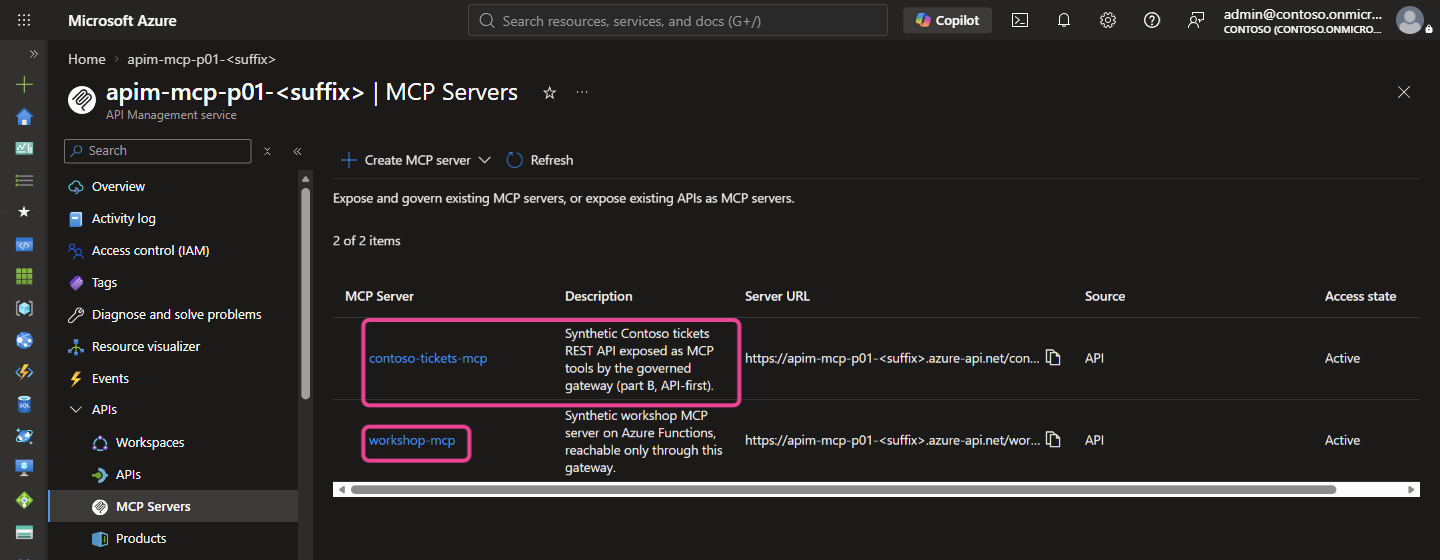
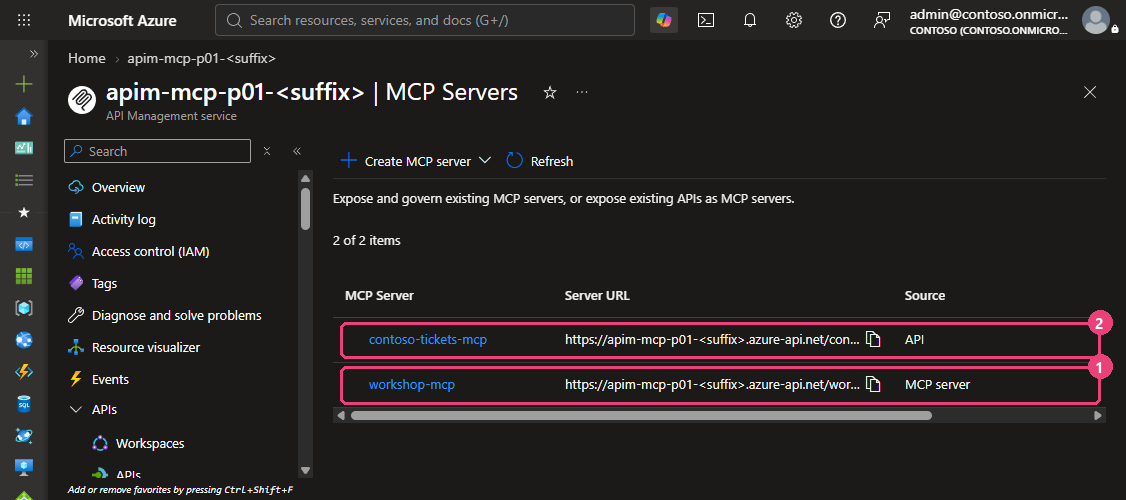
module 04: validated live; MCP passthrough needs a backend entity
- Live finding: without backendId, API Management treats the MCP server as
  REST-backed and answers tools/list with an empty list. Add
  azapi_resource.mcp_backend and backendId (Preview API).
- Passthrough rewrites the challenge resource_metadata under the API path;
  the MCP policy serves that anonymous GET with the same static PRM.
- Validator: accept both gateway metadata URLs and check both; strict-mode
  safe isError reads. Clean-up allow-list includes the backend.
- Real Alice, Bob (403 write, 429 burst), Eve and telemetry results;
  terminal captures; portal capture shows Source: MCP server.

diff --git a/.github/extensions/workshop-build-board/board.html b/.github/extensions/workshop-build-board/board.html
@@ -382,7 +382,8 @@
       "diagram-05-obo-hops-en", "diagram-05-obo-hops-fr", "diagram-05-rbac-checks-en", "diagram-05-rbac-checks-fr",
       "diagram-02-server-levels-en", "diagram-02-server-levels-fr",
       "client-01-inspector", "client-03-vscode", "azure-06-apic-register",
-      "azure-04-mcp-servers", "azure-04b-mcp-tools", "azure-04b-mcp-policy", "terminal-04b-operator", "terminal-04b-alice"];
+      "azure-04-mcp-servers", "azure-04b-mcp-tools", "azure-04b-mcp-policy", "terminal-04b-operator", "terminal-04b-alice",
+      "terminal-04-operator", "terminal-04-bob"];
     let state;
     let rawState;
     let participant = null;

diff --git a/docs/PROGRESS.md b/docs/PROGRESS.md
@@ -13,7 +13,7 @@ or in an approved author-owned non-production tenant.
 | 01 | Discover MCP (no Azure) | authored | | Real local SDK validator and Inspector 2.9.0 tools/list + tools/call pass; protocol 2026-07-28 with SDK client. | EN/FR guide, locked .NET 10 stdio server and client config implemented. Manual VS Code approval observation remains pending; no Azure needed here. |
 | 02 | An "open" MCP server (level 0) | validated | 2026-10-16 | Live validator in the author's test subscription: running HTTPS-only app, HTTP 401 without key and with a wrong key, initialize 200 (protocol 2025-06-18), tools/list 200 with exactly five tools, create_ticket 200 with only the key (risk shown, one synthetic ticket). Offline validator, 39/39 unit tests, Terraform fmt/validate and 49/49 mocked runs PASS. | A tenant Azure Policy (`modify` effect, management-group scope) forced Storage public network access to `Disabled`; Flex publishing failed with HTTP 403. Added the `mcp_private_storage` opt-in (shared VNet, delegated /27 Flex subnet, blob and queue private endpoints and DNS zones); no exemption requested, no shared key. Applied 11+1 then 9+1 (0 deletions). Key rotated after validation. Resources kept for module 03. Microsoft.ApiCenter registered (free) to pass the full MCP preflight. |
 | 03 | Identity with Microsoft Entra (level 1) | validated | 2026-10-19 | Live operator checks 2026-10-17 in the author's test tenant: Entra apply 8 added (no secret, assignment required); stage 1 and 2 in-place updates; validator PASS: no token 401 by built-in authentication, PRM (Preview) names tenant and user_impersonation, Graph-audience token 401, authsettingsV2 required/Return401/tenant issuer/MCP audience, key gate replaced, system key alone 401. Persona check Alice live 2026-10-19 after her MFA registration (authenticator app): PASS signed-in account matches the private object ID, initialize HTTP 200 with a token for the MCP audience (protocol 2025-06-18), tools/list exactly five tools. Bob persona 2026-10-19 PASS: signed-in object ID matches, initialize HTTP 200 (protocol 2025-06-18), tools/list exactly five tools. Eve persona 2026-10-19 PASS: Entra refuses the token with AADSTS50105 (not assigned). Offline validator and Terraform mock runs PASS. | Each test account first registered MFA in the test tenant. Recent Azure CLI versions fall back to an interactive pop-up after a refused token; the validators now call `Get-WorkshopAccessToken` (60-second timeout, keeps only the AADSTS code). Test accounts created by the identity administrator outside Terraform; IDs only in private files. |
-| 04 | API Management as the only entry point (level 2) | authored | | Live operator checks 2026-10-18: Standard v2 created in about 2.5 min; validator PASS: gateway 401 with PRM challenge, gateway PRM names gateway/tenant/scope, direct Function host HTTP 403, Graph-audience token 401, Function publicNetworkAccess Disabled, deployed diagnostics 0 body bytes and no header at both scopes. Offline validator and 49/49 workload mock runs PASS. | Not `validated`: persona, burst 429 and telemetry checks not run (MFA registration required for test accounts). Fixed: the 2025-09-01-preview service rejects `mcpProperties.endpoints` as an array (published REST reference and samples show an array); gateway.tf now sends a map keyed by name with azapi schema validation disabled on that resource. A tenant automation switches the optional portal plan to F1 nightly; plans then restore B1. MCP server API is **Preview**. Optional part B (REST API exposed as an MCP server, API-first, `enable_rest_mcp_demo`) deployed live 2026-10-19 with stage 1 (apply 27 added, 3 changed, 0 destroyed; APIM Standard v2 in about 6 min): `validate-rest-mcp.ps1` operator PASS (MCP 401 with PRM challenge, PRM 200, REST API 401 without token, Graph-audience 401, type mcp with list_tickets/get_ticket mapped, 0 body bytes); Alice persona PASS (tools/list exactly 2 tools, list_tickets 3 synthetic tickets, get_ticket CT-1001). Live findings: REST API policies (token check, then mock-response) do run for MCP tool calls; tool names are the tool resource names; the argument is named after the template parameter (ticketId); APIM omits `isError` on success (validator now treats absent as false). Alice persona for part A not run (stage 2 not applied). Cleanup `-Apply` PASS (phase 0: 10 destroyed; phase 2: 17 destroyed); APIM removed the same day. Bob not run. |
+| 04 | API Management as the only entry point (level 2) | validated | 2026-10-20 | Live operator checks 2026-10-18: Standard v2 created in about 2.5 min; validator PASS: gateway 401 with PRM challenge, gateway PRM names gateway/tenant/scope, direct Function host HTTP 403, Graph-audience token 401, Function publicNetworkAccess Disabled, deployed diagnostics 0 body bytes and no header at both scopes. Offline validator and 49/49 workload mock runs PASS. | Not `validated`: persona, burst 429 and telemetry checks not run (MFA registration required for test accounts). Fixed: the 2025-09-01-preview service rejects `mcpProperties.endpoints` as an array (published REST reference and samples show an array); gateway.tf now sends a map keyed by name with azapi schema validation disabled on that resource. A tenant automation switches the optional portal plan to F1 nightly; plans then restore B1. MCP server API is **Preview**. Optional part B (REST API exposed as an MCP server, API-first, `enable_rest_mcp_demo`) deployed live 2026-10-19 with stage 1 (apply 27 added, 3 changed, 0 destroyed; APIM Standard v2 in about 6 min): `validate-rest-mcp.ps1` operator PASS (MCP 401 with PRM challenge, PRM 200, REST API 401 without token, Graph-audience 401, type mcp with list_tickets/get_ticket mapped, 0 body bytes); Alice persona PASS (tools/list exactly 2 tools, list_tickets 3 synthetic tickets, get_ticket CT-1001). Live findings: REST API policies (token check, then mock-response) do run for MCP tool calls; tool names are the tool resource names; the argument is named after the template parameter (ticketId); APIM omits `isError` on success (validator now treats absent as false). Alice persona for part A not run (stage 2 not applied). Cleanup `-Apply` PASS (phase 0: 10 destroyed; phase 2: 17 destroyed); APIM removed the same day. Bob not run. Full live run 2026-10-20 (redeployed: 17 added, stage 2 lock): live finding, the MCP server had no backend entity, so APIM answered tools/list itself with an empty list (forward-request 0 ms, portal Source: API); fix: `azapi_resource.mcp_backend` + `backendId` (portal Source: MCP server, SSE passthrough). Second finding: in passthrough mode APIM rewrites the challenge `resource_metadata` under the API path; the MCP policy now answers that anonymous GET with the same static PRM (uses `context.Request.OriginalUrl`). Validator PASS: operator (401 + PRM at both URLs, direct 403, Graph token 401, publicNetworkAccess Disabled, 0 body bytes); Alice (5 tools, get_service_health 200, create_ticket 200, unknown 403, malformed 400); Bob (read 200, create_ticket 403, burst of 40 → 429); Eve (AADSTS50105); telemetry (103 gateway requests, 60 tool traces with tool label and caller oid, no body). Part B re-applied (10 added): operator and Bob PASS. |
 | 05 | On-Behalf-Of vs app-only (level 3) | authored | | Live operator checks 2026-10-18: workload apply 6 added; Entra apply 5 added (delegated Graph User.Read and Storage user_impersonation, one federated credential, admin consent); validator PASS: Function settings name both identities and hold no secret, MCP API has no client secret and exactly one federated credential, report container has 2 Storage Blob Data Reader assignments (app-only identity, Alice) and none for the OBO identity or Bob. | Not `validated`: persona checks (Alice 200, Bob 200 with isError, as_app identical) not run (MFA registration required). With module 02 private Storage, publish-report.ps1 from outside the VNet fails as expected; the synthetic report was uploaded from a short-lived ACI in a delegated subnet with a container-scoped managed identity, then the ACI, identity, role and subnet were deleted. |
 | 06 | Observe and inventory (level 4) | authored | | KQL run live 2026-10-18 on gateway traffic with `az monitor app-insights query --analytics-query @file`: rows for initialize/401/workshop-validator with metadata only. Offline validator PASS. | Not `validated`: no persona traffic (tools/call) yet; API Center registration and BYO listing are manual and not run. Fixed: Learn documents `api.type == Mcp`, but a passthrough MCP server logs `mcp-backend`; the query accepts both. Single quotes keep the query intact through the Azure CLI on Windows. Agent 365 (06b) remains a presenter talk track. Portal capture of the same query in Logs (KQL mode) added 2026-10-19. |
 | 07 | Optional: other clients | authored | | Offline validator 14/14 PASS in a fresh clone (PR #13, merged `6eb049c`). Bash syntax check passed. | Facilitator demo only: Foundry agent (managed identity or OAuth identity passthrough, Preview) and Copilot Studio outline. No Azure or Entra resources. |

diff --git a/modules/04-governed-gateway/README.fr.md b/modules/04-governed-gateway/README.fr.md
@@ -151,8 +151,8 @@ $vars = '-var-file=..\..\.workshop\participant.tfvars.json', '-var-file=..\..\.w
 terraform '-chdir=infra\workload' init -lockfile=readonly
 terraform '-chdir=infra\workload' plan @vars '-out=..\..\.workshop\module04.tfplan'
 if ($LASTEXITCODE -ne 0) { throw 'Terraform plan failed.' }
-# Relire : environ 19 ajouts (réseau, DNS, point de terminaison privé, API Management, API, stratégies, journaliseur,
-# diagnostics, identité et une attribution de rôle) et la mise à jour en place connue des app_settings. Puis, après approbation :
+# Relire : environ 20 ajouts (réseau, DNS, point de terminaison privé, API Management, le backend de la Function, API,
+# stratégies, journaliseur, diagnostics, identité et une attribution de rôle) et la mise à jour en place connue des app_settings. Puis, après approbation :
 terraform '-chdir=infra\workload' apply '..\..\.workshop\module04.tfplan'
 ```
 
@@ -320,20 +320,25 @@ Start-Sleep -Seconds 300   # délai d'ingestion de la télémétrie
 > injoignable depuis Internet. La passerelle refuse un jeton émis pour une autre audience, et les journaux
 > ne contiennent aucun octet de corps ni aucun en-tête.
 
-> **Résultat attendu** — messages des contrôles par persona, `-Burst` et `-CheckTelemetry` ; non capturé, car le tenant de
-> test exige que les comptes de test s'inscrivent à l'authentification multifacteur (MFA) (extrait).
+![Sortie réelle du terminal : contrôles opérateur du module 04 ; le cadre 1 marque les quatre refus et les métadonnées de la passerelle, le cadre 2 la Function privée et les diagnostics à 0 octet de corps](../../assets/screenshots/terminal-04-operator.png)
+
+> **Résultat réel** — contrôles par persona, `-Burst` et `-CheckTelemetry`, 2026-10-20, tenant de test de l'auteur ; chaque
+> compte de test est connecté dans son propre profil Azure CLI. Noms et ID masqués (extrait).
 >
 > ```text
 > PASS Alice get_service_health is allowed with Tools.Read (expected HTTP 200).
-> PASS Bob create_ticket is denied by the gateway: Tools.Write is missing (expected HTTP 403).
 > PASS Alice create_ticket is allowed with Tools.Write and queues one synthetic ticket (expected HTTP 200).
+> PASS Bob create_ticket is denied by the gateway: Tools.Write is missing (expected HTTP 403).
 > PASS an unknown tool and a JSON-RPC message without a method are denied safely (expected HTTP 403 and HTTP 400).
-> PASS Bob burst of <count> calls is throttled per caller object ID (expected HTTP 429).
-> PASS Application Insights: <n> gateway requests and <n> tool traces with tool label and caller oid, no body, argument or token (expected HTTP 200 from Log Analytics).
+> PASS Bob burst of 40 calls is throttled per caller object ID (expected HTTP 429).
+> PASS Eve cannot obtain a token, so she never reaches the gateway (expected HTTP 400 from the token endpoint, AADSTS50105).
+> PASS Application Insights: 103 gateway requests and 60 tool traces with tool label and caller oid, no body, argument or token (expected HTTP 200 from Log Analytics).
 > ```
 >
 > **Ce que cela signifie pour vous :** être connecté ne veut plus dire « tout faire » : Bob lit, seule Alice écrit, et
 > personne ne peut saturer le serveur. Les journaux indiquent **qui** a appelé **quel outil**, jamais ce qu'il a envoyé.
+
+![Sortie réelle du terminal : contrôle par persona du module 04, connexion en tant que Bob ; le cadre 1 marque la lecture autorisée et l'écriture refusée avec HTTP 403, le cadre 2 la rafale limitée avec HTTP 429](../../assets/screenshots/terminal-04-bob.png)
 
 ### Partie B facultative - Exposer une API REST en serveur MCP (approche API-first)
 
@@ -476,7 +481,7 @@ pour l'agrandir.
 **API Management → MCP Servers.** Deux serveurs sur la même passerelle : `contoso-tickets-mcp` (partie B, construit à
 partir d'une API REST) et `workshop-mcp` (partie A, le serveur Azure Functions).
 
-![Capture réelle : liste MCP Servers d'API Management avec contoso-tickets-mcp (API REST exposée en MCP) et workshop-mcp (serveur existant)](../../assets/screenshots/azure-04-mcp-servers.png)
+![Capture réelle : liste MCP Servers d'API Management ; le cadre 1 marque workshop-mcp avec la source MCP server (relais vers la Function), le cadre 2 contoso-tickets-mcp avec la source API (API REST exposée en MCP)](../../assets/screenshots/azure-04-mcp-servers.png)
 
 **contoso-tickets-mcp → Tools.** Chaque opération cochée devient un outil MCP : `GET /tickets` et `GET /tickets/{ticketId}`.
 
@@ -680,6 +685,8 @@ compare chaque réponse au statut attendu : un refus prévu est une réussite. C
 | La publication du code échoue après l'étape 2 | Normal : les points de terminaison de déploiement sont désormais privés. Publiez avant l'étape 2, ou depuis le réseau virtuel. |
 | Nom déjà utilisé après un nettoyage | Suppression réversible d'API Management : purgez l'instance (voir Nettoyer). |
 | `ValidationError` ... `mcpProperties.endpoints` ... `JSON array` | Votre copie est antérieure à la correction : le service 2025-09-01-preview attend `endpoints` sous forme de table indexée par nom ; `infra/workload/gateway.tf` envoie désormais `{ message = { uriTemplate = "/mcp" } }` (API Preview ; la référence REST publiée montre encore un tableau). |
+| Le `tools/list` d'Alice par la passerelle est vide (`{"tools":[]}`), alors que la Function liste cinq outils en direct | Le serveur MCP n'a pas d'entité backend : API Management le traite alors comme un serveur MCP construit à partir d'une API REST et répond lui-même à `tools/list`. `infra/workload/gateway.tf` crée `azapi_resource.mcp_backend` et renseigne `backendId` (API Preview ; la référence publiée ne montre que `serviceUrl`). Dans le portail, **MCP Servers** doit afficher **Source : MCP server** pour `workshop-mcp`. |
+| Le challenge 401 indique `.../workshop-mcp/.well-known/oauth-protected-resource/workshop-mcp/mcp` | Normal en mode passthrough : API Management réécrit l'URL des métadonnées sous le chemin du serveur MCP. La stratégie du serveur MCP répond à ce GET anonyme précis avec le même document de métadonnées ; l'URL à la racine fonctionne toujours. |
 | Le plan affiche le plan de service du portail `F1` -> `B1` | Un élément extérieur à Terraform a modifié le plan du portail facultatif (dans le tenant de l'auteur, une automatisation de réduction des coûts le fait chaque nuit). N'approuvez que si vous voulez revenir en B1 ; sinon, laissez ce changement de côté. |
 
 ## Nettoyer

diff --git a/modules/04-governed-gateway/README.md b/modules/04-governed-gateway/README.md
@@ -145,8 +145,8 @@ $vars = '-var-file=..\..\.workshop\participant.tfvars.json', '-var-file=..\..\.w
 terraform '-chdir=infra\workload' init -lockfile=readonly
 terraform '-chdir=infra\workload' plan @vars '-out=..\..\.workshop\module04.tfplan'
 if ($LASTEXITCODE -ne 0) { throw 'Terraform plan failed.' }
-# Review: about 19 additions (network, DNS, private endpoint, API Management, APIs, policies, logger, diagnostics,
-# identity and one role assignment) and the known in-place Function App app_settings update. Then, after approval:
+# Review: about 20 additions (network, DNS, private endpoint, API Management, the Function backend, APIs, policies, logger,
+# diagnostics, identity and one role assignment) and the known in-place Function App app_settings update. Then, after approval:
 terraform '-chdir=infra\workload' apply '..\..\.workshop\module04.tfplan'
 ```
 
@@ -311,20 +311,25 @@ Start-Sleep -Seconds 300   # telemetry ingestion delay
 > **What it means for you:** there is now **one door**, and the Function behind it is unreachable from the internet.
 > A token for another audience is refused at the gateway, and the logs keep zero body bytes and no header.
 
-> **Expected result** — persona, `-Burst` and `-CheckTelemetry` messages; not captured: the test tenant requires MFA
-> registration for the test accounts (excerpt).
+![Real terminal output: module 04 operator checks; frame 1 marks the four refusals and the gateway metadata, frame 2 the private Function and the zero-body-byte diagnostics](../../assets/screenshots/terminal-04-operator.png)
+
+> **Real result** — persona, `-Burst` and `-CheckTelemetry` runs, 2026-10-20, author's test tenant, each test account
+> signed in to its own Azure CLI profile. Names and IDs withheld (excerpt).
 >
 > ```text
 > PASS Alice get_service_health is allowed with Tools.Read (expected HTTP 200).
-> PASS Bob create_ticket is denied by the gateway: Tools.Write is missing (expected HTTP 403).
 > PASS Alice create_ticket is allowed with Tools.Write and queues one synthetic ticket (expected HTTP 200).
+> PASS Bob create_ticket is denied by the gateway: Tools.Write is missing (expected HTTP 403).
 > PASS an unknown tool and a JSON-RPC message without a method are denied safely (expected HTTP 403 and HTTP 400).
-> PASS Bob burst of <count> calls is throttled per caller object ID (expected HTTP 429).
-> PASS Application Insights: <n> gateway requests and <n> tool traces with tool label and caller oid, no body, argument or token (expected HTTP 200 from Log Analytics).
+> PASS Bob burst of 40 calls is throttled per caller object ID (expected HTTP 429).
+> PASS Eve cannot obtain a token, so she never reaches the gateway (expected HTTP 400 from the token endpoint, AADSTS50105).
+> PASS Application Insights: 103 gateway requests and 60 tool traces with tool label and caller oid, no body, argument or token (expected HTTP 200 from Log Analytics).
 > ```
 >
 > **What it means for you:** being signed in no longer means "can do everything": Bob reads, only Alice writes, and
 > nobody can flood the server. The logs say **who** called **which tool**, never what they sent.
+
+![Real terminal output: module 04 persona check signed in as Bob; frame 1 marks the read allowed and the write refused with HTTP 403, frame 2 the burst throttled with HTTP 429](../../assets/screenshots/terminal-04-bob.png)
 
 ### Optional part B - Expose a REST API as an MCP server (API-first)
 
@@ -464,7 +469,7 @@ pink frames mark what to check). Select an image to open it full size.
 **API Management → MCP Servers.** Two servers on the same gateway: `contoso-tickets-mcp` (part B, built from a REST API)
 and `workshop-mcp` (part A, the Azure Functions server).
 
-![Real capture: API Management MCP Servers list with contoso-tickets-mcp (REST API exposed as MCP) and workshop-mcp (existing server)](../../assets/screenshots/azure-04-mcp-servers.png)
+![Real capture: API Management MCP Servers list; frame 1 marks workshop-mcp with Source MCP server (passthrough to the Function), frame 2 contoso-tickets-mcp with Source API (REST API exposed as MCP)](../../assets/screenshots/azure-04-mcp-servers.png)
 
 **contoso-tickets-mcp → Tools.** Each ticked API operation is one MCP tool: `GET /tickets` and `GET /tickets/{ticketId}`.
 
@@ -663,6 +668,8 @@ compares each answer with the expected status: a refusal you predicted is a succ
 | Code publish fails after stage 2 | Expected: deployment endpoints are private now. Publish before stage 2, or from inside the virtual network. |
 | Name already in use after a clean-up | API Management soft-delete: purge it (see Clean up). |
 | `ValidationError` ... `mcpProperties.endpoints` ... `JSON array` | Your copy predates the fix: the 2025-09-01-preview service expects `endpoints` as a map keyed by name; `infra/workload/gateway.tf` now sends `{ message = { uriTemplate = "/mcp" } }` (Preview API; the published REST reference still shows an array). |
+| Alice's `tools/list` through the gateway is empty (`{"tools":[]}`), but the Function lists five tools directly | The MCP server has no backend entity: API Management then treats it as a REST-backed MCP server and answers `tools/list` itself. `infra/workload/gateway.tf` creates `azapi_resource.mcp_backend` and sets `backendId` (Preview API; the published reference shows only `serviceUrl`). In the portal, **MCP Servers** must show **Source: MCP server** for `workshop-mcp`. |
+| The 401 challenge names `.../workshop-mcp/.well-known/oauth-protected-resource/workshop-mcp/mcp` | Expected in passthrough mode: API Management rewrites the metadata URL under the MCP server path. The MCP server policy answers that exact anonymous GET with the same metadata document; the root URL keeps working. |
 | Plan shows the portal service plan `F1` -> `B1` | Something outside Terraform changed the optional portal plan (in the author's tenant a cost automation does this nightly). Approve only if you want B1 back; otherwise keep the change out of scope. |
 
 ## Clean up

diff --git a/docs/fr/IMPLEMENTATION-STATUS.md b/docs/fr/IMPLEMENTATION-STATUS.md
@@ -1,8 +1,8 @@
 # Ce qui est réellement disponible
 
 Le dépôt contient l'atelier complet : code de préparation, exercice MCP local, modules 02 à 07 et module 99.
-Le [suivi de construction](../PROGRESS.md) indique les contrôles réalisés. **Les modules 00, 02 et 03 sont validés en conditions réelles.**
-Les modules 04 à 06 ont réussi leurs vérifications opérateur dans le tenant de test de l'auteur (2026-10-18),
+Le [suivi de construction](../PROGRESS.md) indique les contrôles réalisés. **Les modules 00, 02, 03 et 04 sont validés en conditions réelles.**
+Les modules 05 et 06 ont réussi leurs vérifications opérateur dans le tenant de test de l'auteur (2026-10-18),
 mais restent au statut `authored` tant que les vérifications d'Alice, Bob et Eve ne sont pas réussies.
 Les comptes de test doivent parfois d'abord enregistrer l'authentification multifacteur (MFA).
 
@@ -13,7 +13,7 @@ Les comptes de test doivent parfois d'abord enregistrer l'authentification multi
 | Découverte MCP locale, module 01 | Serveur stdio .NET 10, contrôles SDK et Inspector, guide EN/FR et configuration VS Code | Observer l'approbation par appel ; le jalon d'environnement précédent reste ouvert |
 | Serveur MCP ouvert, module 02 | **Validé en conditions réelles (2026-10-16).** Serveur MCP Functions .NET 10 avec cinq outils synthétiques, tests unitaires, Terraform Flex/Storage/télémétrie/identité désactivé par défaut avec tests simulés, stockage privé en option (`mcp_private_storage`), guide EN/FR, validateur et nettoyage ciblé | Chaque participant refait la validation dans son propre abonnement |
 | Identité Entra, module 03 | Racine `infra/entra` (inscription, scope, trois rôles d'application, attribution obligatoire, VS Code et Azure CLI préautorisés, attributions pour des comptes existants) et option d'authentification intégrée désactivée par défaut, avec métadonnées de ressource protégée (**Preview**), tests simulés, guide EN/FR, validateur et nettoyage ciblé. **Validé en conditions réelles (2026-10-19) :** vérifications opérateur, Alice et Bob (HTTP 200, cinq outils), Eve refusée par Entra (AADSTS50105) | Chaque participant refait la validation en conditions réelles dans son propre tenant |
-| Passerelle gouvernée, module 04 | Option API Management Standard v2 désactivée par défaut : API de serveur MCP (**Preview**), stratégie de jeton Entra et rôle par outil, limite de débit par `oid`, filtre IP facultatif, métadonnées de ressource protégée sur la passerelle, intégration sortante au réseau virtuel, point de terminaison privé et DNS privé de la Function, verrouillage de l'accès public en deuxième étape, diagnostics à 0 octet de corps ; tests simulés, guide EN/FR, validateur et nettoyage ciblé. Vérifications opérateur réussies en conditions réelles (2026-10-18) : 401 sur la passerelle, 403 en accès direct à la Function, 0 octet de corps. Partie B facultative (une API REST exposée en MCP) : vérifications opérateur et persona d'Alice réussies (2026-10-19) | Vérifications par persona 403/200, rafale 429 et télémétrie. Standard v2 est facturé à l'heure : déployez et nettoyez le même jour |
+| Passerelle gouvernée, module 04 | Option API Management Standard v2 désactivée par défaut : API de serveur MCP (**Preview**), stratégie de jeton Entra et rôle par outil, limite de débit par `oid`, filtre IP facultatif, métadonnées de ressource protégée sur la passerelle, intégration sortante au réseau virtuel, point de terminaison privé et DNS privé de la Function, verrouillage de l'accès public en deuxième étape, diagnostics à 0 octet de corps ; tests simulés, guide EN/FR, validateur et nettoyage ciblé. Vérifications opérateur réussies en conditions réelles (2026-10-18) : 401 sur la passerelle, 403 en accès direct à la Function, 0 octet de corps. **Validé en conditions réelles (2026-10-20) :** Alice 200 sur l'écriture, Bob 403 sur l'écriture et 429 sur la rafale, Eve refusée (AADSTS50105), télémétrie sans contenu. Partie B facultative (une API REST exposée en MCP) : opérateur, Alice et Bob réussis | Chaque participant refait la validation en conditions réelles. Standard v2 est facturé à l'heure : déployez et nettoyez le même jour |
 | Accès délégué et applicatif (05) | Option à activer explicitement, désactivée par défaut : `whoami` (On-Behalf-Of vers Graph, étiquette de persona seulement), `read_report_as_user` (On-Behalf-Of vers Storage, RBAC de l'appelant) et `read_report_as_app` (identité managée réservée à l'application) ; deux identités distinctes, rôles limités au conteneur, informations d'identification fédérées Entra, consentement à activer explicitement, sans secret ; tests unitaires et simulés, guide EN/FR, validateur, étape de publication et nettoyage ciblé. Vérifications opérateur réussies en conditions réelles (2026-10-18) | Vérifications par persona : Alice HTTP 200, Bob HTTP 200 avec `isError`, résultat applicatif identique |
 | Observer et inventorier (06) | Rédigé : requêtes de télémétrie, inventaire API Center, guide EN/FR, validateur hors ligne et nettoyage ciblé. La requête KQL a tourné en conditions réelles sur le trafic de la passerelle (2026-10-18), métadonnées uniquement | Trafic des personas (`tools/call`), inscription et listage dans API Center (manuels, **Preview**) |
 | Clients (07) et nettoyage (99) | Rédigés : configuration facultative des clients (guide EN/FR, validateur hors ligne, scripts de nettoyage) ; nettoyage orchestré en ordre inverse, en mode rapport par défaut | Vérifications réelles des clients ; nettoyage en mode rapport sur un vrai poste de participant |

diff --git a/docs/IMPLEMENTATION-STATUS.md b/docs/IMPLEMENTATION-STATUS.md
@@ -1,7 +1,7 @@
 # What is actually available?
 
 The repository contains the full workshop: preparation code, a local MCP exercise and modules 02 to 07 and 99.
-Read [build progress](PROGRESS.md) for evidence. **Modules 00, 02 and 03 are validated live.** Modules 04 to 06 passed their live
+Read [build progress](PROGRESS.md) for evidence. **Modules 00, 02, 03 and 04 are validated live.** Modules 05 and 06 passed their live
 operator checks in the author's test tenant (2026-10-18), but stay `authored` until the Alice, Bob and Eve
 persona checks pass. Test accounts may first need to register multifactor authentication (MFA).
 
@@ -12,7 +12,7 @@ persona checks pass. Test accounts may first need to register multifactor authen
 | Local MCP discovery (01) | .NET 10 stdio server, SDK validator, Inspector CLI checks, EN/FR guide and VS Code configuration | Observe the manual per-call client approval; preceding environment gate remains open |
 | Open MCP server (02) | **Validated live (2026-10-16).** .NET 10 Functions MCP server with five synthetic tools, unit tests, default-off Flex/Storage/telemetry/identity Terraform with mock tests, optional private Storage (`mcp_private_storage`), EN/FR guide, validator and scoped clean-up | Each participant repeats the live validation in their own subscription |
 | Entra identity (03) | `infra/entra` root (registration, scope, three app roles, assignment required, pre-authorized VS Code and Azure CLI, persona assignments for existing accounts) and default-off built-in authentication opt-in with Protected Resource Metadata (**Preview**), mock tests, EN/FR guide, validator and scoped clean-up. **Validated live (2026-10-19):** operator checks, Alice and Bob (HTTP 200, five tools), Eve refused by Entra (AADSTS50105) | Each participant repeats the live validation in their own tenant |
-| Governed gateway (04) | Default-off API Management Standard v2 opt-in: MCP server API (**Preview**), Entra token + per-tool role policy, per-oid rate limit, optional IP filter, gateway Protected Resource Metadata, outbound virtual network integration, Function private endpoint and private DNS, staged public-access lock, zero-body-byte diagnostics; mock tests, EN/FR guide, validator and scoped clean-up. Live operator checks pass (2026-10-18): gateway 401, direct Function 403, zero body bytes. Optional part B (a REST API exposed as MCP): operator and Alice persona checks pass (2026-10-19) | Persona 403/200, burst 429 and telemetry checks. Standard v2 is billed per hour: deploy and clean up the same day |
+| Governed gateway (04) | Default-off API Management Standard v2 opt-in: MCP server API (**Preview**), Entra token + per-tool role policy, per-oid rate limit, optional IP filter, gateway Protected Resource Metadata, outbound virtual network integration, Function private endpoint and private DNS, staged public-access lock, zero-body-byte diagnostics; mock tests, EN/FR guide, validator and scoped clean-up. Live operator checks pass (2026-10-18): gateway 401, direct Function 403, zero body bytes. **Validated live (2026-10-20):** Alice 200 on the write, Bob 403 on the write and 429 on the burst, Eve refused (AADSTS50105), payload-free telemetry. Optional part B (a REST API exposed as MCP): operator, Alice and Bob pass | Each participant repeats the live validation. Standard v2 is billed per hour: deploy and clean up the same day |
 | Delegated and app-only access (05) | Default-off opt-in: `whoami` (On-Behalf-Of to Graph, persona label only), `read_report_as_user` (On-Behalf-Of to Storage, caller's RBAC) and `read_report_as_app` (app-only managed identity); two separate identities, container-scoped roles, Entra federated credential with opt-in consent and no secret; unit and mock tests, EN/FR guide, validator, publish step and scoped clean-up. Live operator checks pass (2026-10-18) | Persona checks: Alice HTTP 200, Bob HTTP 200 with `isError`, identical app-only result |
 | Observe and inventory (06) | Authored: telemetry queries, API Center inventory, EN/FR guide, offline validator and scoped clean-up. The KQL query ran live on gateway traffic (2026-10-18), metadata only | Persona traffic (`tools/call`), API Center registration and listing (manual, **Preview**) |
 | Clients (07) and clean-up (99) | Authored: optional client setup (EN/FR guide, offline validator, clean-up scripts); orchestrated clean-up in reverse order with report-only default | Live client checks; report-mode clean-up on a real attendee machine |

diff --git a/README.md b/README.md
@@ -108,7 +108,7 @@ Module 02 deploys real Azure resources: start it only after module 00 validation
 | 01 | 🔍 Discover MCP (no Azure) | ✅ Required | 🟢 Tested on a laptop (no Azure); the VS Code approval prompt is a manual check | [Open](modules/01-discover-mcp/README.md) · [FR](modules/01-discover-mcp/README.fr.md) |
 | 02 | 🔑 Server protected by a key (level 0) | ✅ Required | 🟢 Fully tested in Azure (2026-10-16) | [Open](modules/02-open-server/README.md) · [FR](modules/02-open-server/README.fr.md) |
 | 03 | 🪪 Microsoft Entra identity (level 1) | ✅ Required | 🟢 Fully tested in Azure (2026-10-19): operator, Alice, Bob and Eve | [Open](modules/03-entra-authentication/README.md) · [FR](modules/03-entra-authentication/README.fr.md) |
-| 04 | 🚪 API Management as the only entry (level 2), optional part B: a REST API exposed as MCP | ✅ Required (part B optional) | 🟡 Tested in Azure; test users: Alice ✅ (part B), Bob and Eve to do | [Open](modules/04-governed-gateway/README.md) · [FR](modules/04-governed-gateway/README.fr.md) |
+| 04 | 🚪 API Management as the only entry (level 2), optional part B: a REST API exposed as MCP | ✅ Required (part B optional) | 🟢 Fully tested in Azure (2026-10-20): operator, Alice, Bob and Eve; part B: Alice and Bob | [Open](modules/04-governed-gateway/README.md) · [FR](modules/04-governed-gateway/README.fr.md) |
 | 05 | 👤 On-Behalf-Of vs app-only (level 3) | ✅ Required | 🟡 Tested in Azure; test users Alice, Bob and Eve to do | [Open](modules/05-delegated-and-app-only/README.md) · [FR](modules/05-delegated-and-app-only/README.fr.md) |
 | 06 | 📊 Observe and inventory (level 4) | ✅ Required | 🟡 Tested in Azure; test users Alice, Bob and Eve to do | [Open](modules/06-observe-inventory/README.md) · [FR](modules/06-observe-inventory/README.fr.md) |
 | 07 | 🤖 Other clients (Foundry, Copilot Studio) | ➕ Optional | ⚪ Written and checked offline; not yet tried in Azure | [Open](modules/07-clients/README.md) · [FR](modules/07-clients/README.fr.md) |
@@ -148,7 +148,7 @@ See [module 03, persona checks](modules/03-entra-authentication/README.md#steps)
 *Module 03 app roles: what a user or an application may do on the MCP server.*
 See [module 03, check the same result in the Azure portal](modules/03-entra-authentication/README.md#check-the-same-result-in-the-azure-portal).
 
-![Real capture: API Management MCP Servers list with contoso-tickets-mcp (REST API exposed as MCP) and workshop-mcp (existing server)](assets/screenshots/azure-04-mcp-servers.png)
+![Real capture: API Management MCP Servers list; frame 1 marks workshop-mcp with Source MCP server (passthrough to the Function), frame 2 contoso-tickets-mcp with Source API (REST API exposed as MCP)](assets/screenshots/azure-04-mcp-servers.png)
 
 *Module 04: API Management is the only entry. Two MCP servers on one gateway: the Azure Functions server (part A) and a REST API exposed as tools (optional part B).*
 See [module 04, steps](modules/04-governed-gateway/README.md#steps).

diff --git a/docs/fr/INTEGRATION-OPTIONS.md b/docs/fr/INTEGRATION-OPTIONS.md
@@ -88,7 +88,7 @@ même.
 Solution de repli si la démo en direct ne peut pas tourner : ces captures réelles viennent du même déploiement
 (2026-10-19, tenant de test de l'auteur ; noms pseudonymisés, ID remplacés par des zéros).
 
-![Capture réelle : liste MCP Servers d'API Management avec contoso-tickets-mcp, construit à partir de l'API REST, et le serveur existant workshop-mcp](../../assets/screenshots/azure-04-mcp-servers.png)
+![Capture réelle : liste MCP Servers d'API Management ; le cadre 1 marque workshop-mcp avec la source MCP server (relais vers la Function), le cadre 2 contoso-tickets-mcp avec la source API (construit à partir de l'API REST)](../../assets/screenshots/azure-04-mcp-servers.png)
 
 ![Capture réelle : page Tools du serveur MCP, avec les deux opérations REST sélectionnées comme outils](../../assets/screenshots/azure-04b-mcp-tools.png)
 

diff --git a/docs/INTEGRATION-OPTIONS.md b/docs/INTEGRATION-OPTIONS.md
@@ -82,7 +82,7 @@ validator, and keep the real captures ready as a fallback. Delete API Management
 Fallback if the live demo cannot run: these real captures come from the same deployment (2026-10-19, author's test
 tenant; names pseudonymised, IDs replaced by zeros).
 
-![Real capture: API Management MCP Servers list with the REST-backed contoso-tickets-mcp and the existing workshop-mcp server](../assets/screenshots/azure-04-mcp-servers.png)
+![Real capture: API Management MCP Servers list; frame 1 marks workshop-mcp with Source MCP server (passthrough to the Function), frame 2 contoso-tickets-mcp with Source API (built from the REST API)](../assets/screenshots/azure-04-mcp-servers.png)
 
 ![Real capture: MCP server Tools blade with the two REST operations selected as tools](../assets/screenshots/azure-04b-mcp-tools.png)
 

diff --git a/docs/fr/facilitator-guide.md b/docs/fr/facilitator-guide.md
@@ -2,8 +2,8 @@
 
 [English](../facilitator-guide.md)
 
-Ce guide vous aide à préparer l'atelier principal, qui dure 4 heures. Les modules 00, 02 et 03 sont validés en conditions réelles.
-Les modules 04 à 06 ont réussi leurs vérifications opérateur dans un tenant de test, mais restent au statut « rédigé »
+Ce guide vous aide à préparer l'atelier principal, qui dure 4 heures. Les modules 00, 02, 03 et 04 sont validés en conditions réelles.
+Les modules 05 et 06 ont réussi leurs vérifications opérateur dans un tenant de test, mais restent au statut « rédigé »
 tant que les vérifications d'Alice, Bob et Eve ne sont pas réussies. Les modules 01, 07 et 99 sont rédigés (contrôles hors ligne réussis).
 Les horaires décrivent le parcours prévu ; ils ne prouvent pas que les modules sont validés.
 

diff --git a/docs/facilitator-guide.md b/docs/facilitator-guide.md
@@ -2,7 +2,7 @@
 
 [Français](fr/facilitator-guide.md)
 
-This guide supports a 4-hour core workshop. Modules 00, 02 and 03 are validated live. Modules 04 to 06 passed their live
+This guide supports a 4-hour core workshop. Modules 00, 02, 03 and 04 are validated live. Modules 05 and 06 passed their live
 operator checks in a test tenant but stay authored until the Alice, Bob and Eve persona checks pass.
 Modules 01, 07 and 99 are authored (offline checks pass). Timings describe the planned delivery and must not be presented
 as validation evidence.
